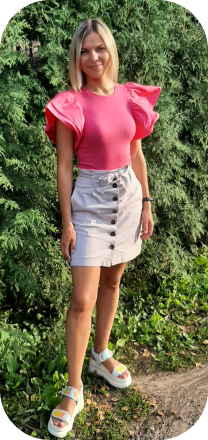
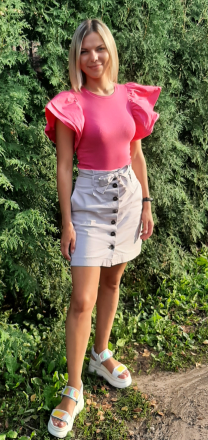
изменения в section - abot-me

diff --git a/styles/style.css b/styles/style.css
@@ -10,7 +10,6 @@ html {
 
 body {
     font-family: Kurale, serif;
-    text-align: center;
 }
 
 section {
@@ -30,7 +29,7 @@ h3 {
 }
 
 .about-me {
-    background-color: pink;
+    background-color: #E5E5E5;
 }
 
 .container-about-me {
@@ -46,9 +45,10 @@ h3 {
 }
 
 .my-foto {
-    width: 100%;
+    max-width: 208px;
     height: 100%;
     object-fit: cover;
+    border-radius: 50px;
 }
 
 .container-about-me__description {
